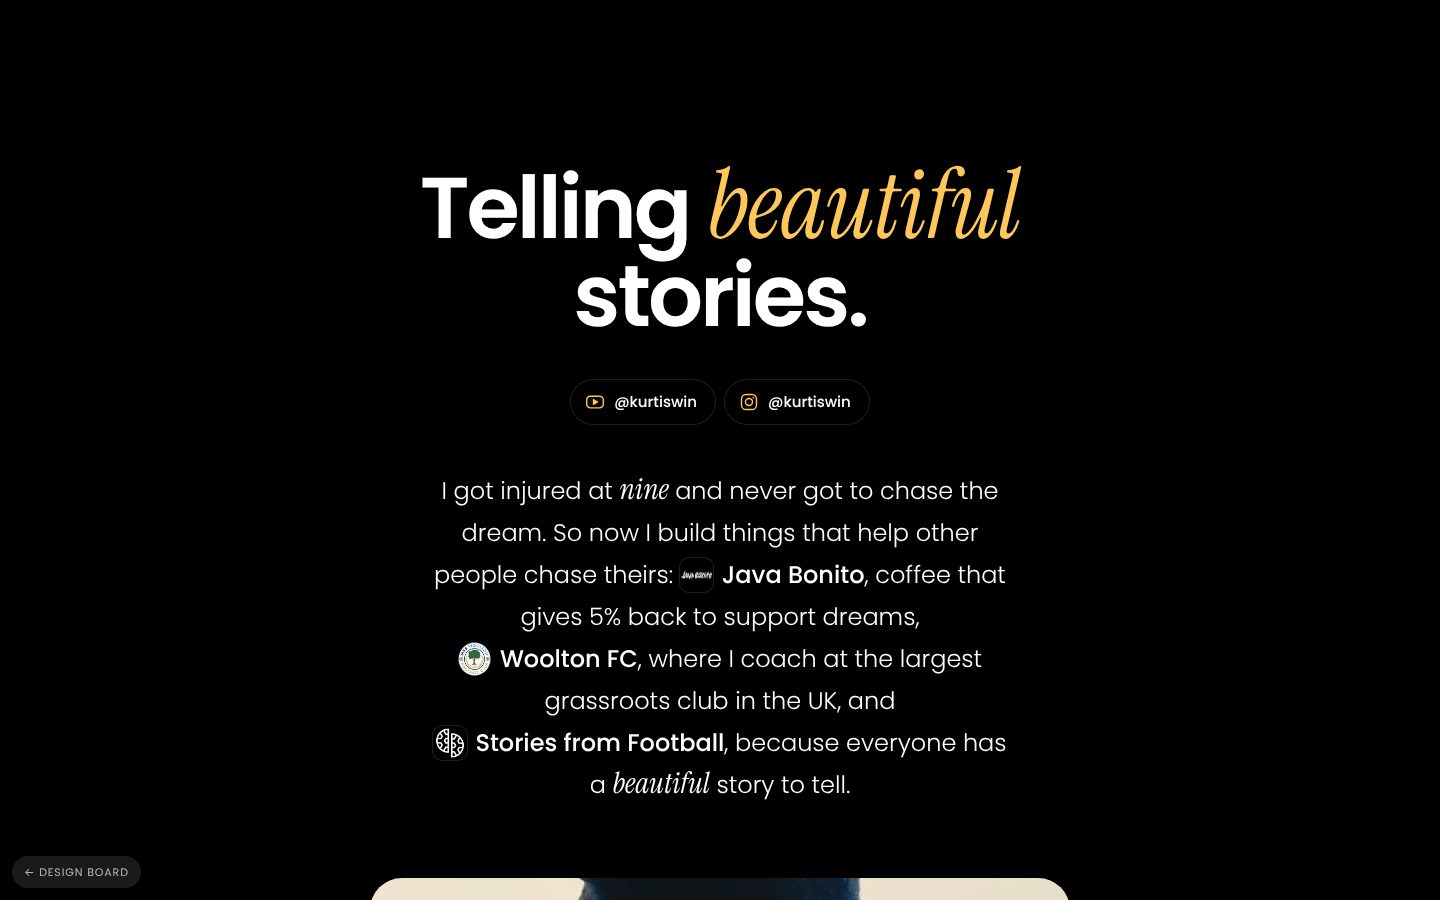
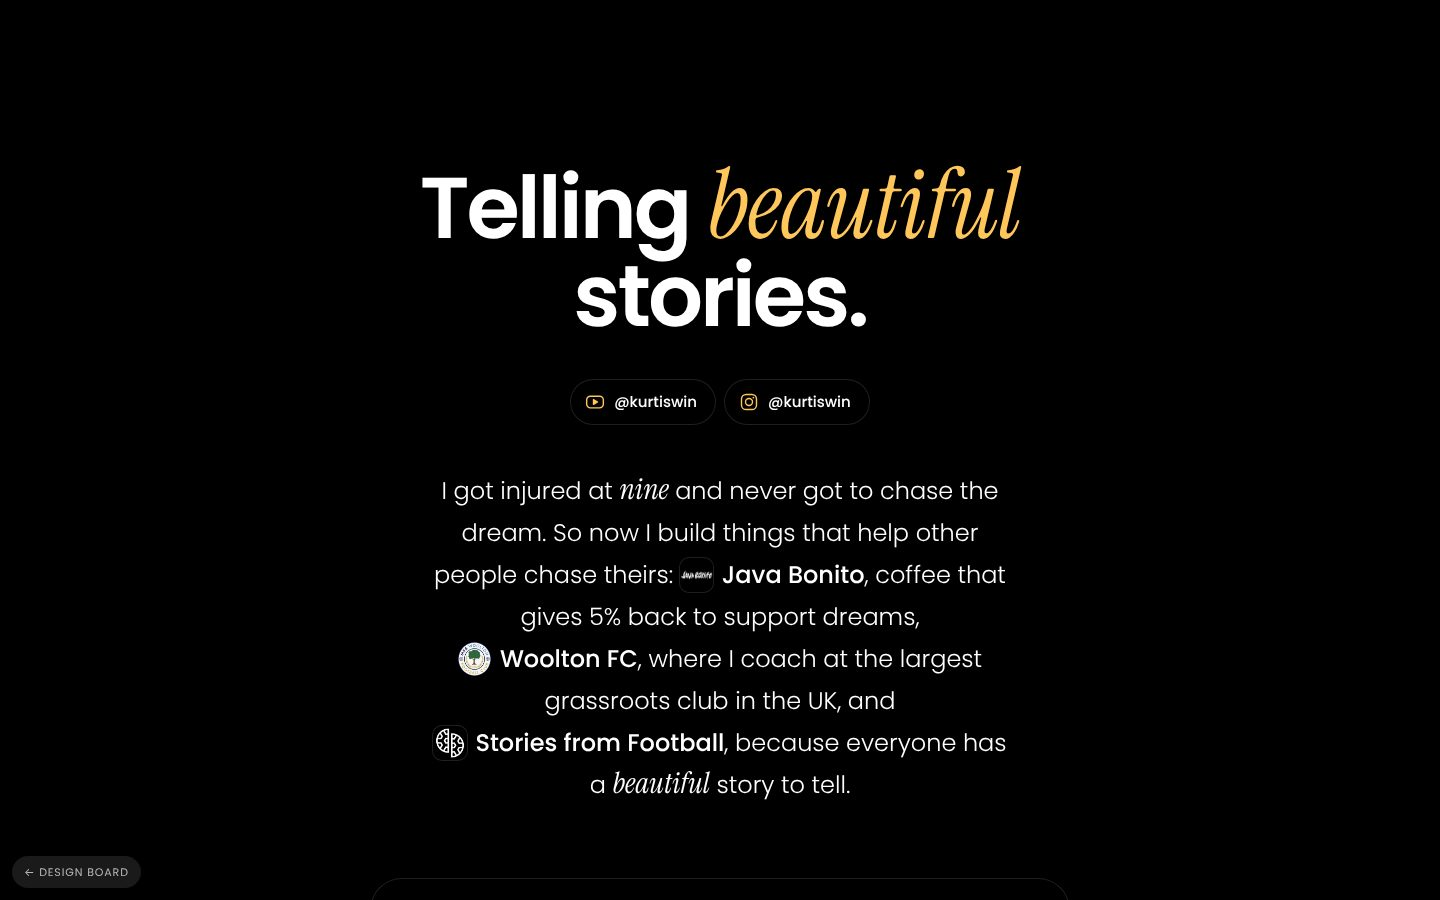
Halve video, remove What to expect block
Claude-Session: https://claude.ai/code/session_01YWeD3rSu7rVPaxhd9cXvfE

Changed region(s): [[0.25, 0.9644, 0.75, 1.0]]

diff --git a/kurtis-site/design-board/site.html b/kurtis-site/design-board/site.html
@@ -51,7 +51,7 @@ h1 em{font-family:var(--serif);font-weight:400;font-style:italic;letter-spacing:
 /* Film + signup card */
 .card{width:100%;max-width:100%;margin-top:60px;border-radius:32px;overflow:hidden;background:#000;box-shadow:inset 0 0 0 1px var(--line);text-align:left}
 @media (min-width:900px){.card{width:700px;max-width:none;margin-top:72px}.card .signup{max-width:680px;margin:0 auto}}
-.film{position:relative;aspect-ratio:4/3;max-width:100%;background:#0a0a0a;overflow:hidden}
+.film{position:relative;aspect-ratio:4/3;width:50%;max-width:100%;margin:clamp(22px,5vw,40px) auto 0;border-radius:20px;background:#0a0a0a;overflow:hidden}
 .film video{position:absolute;inset:0;width:100%;height:100%;object-fit:cover;display:block}
 
 .signup{padding:clamp(22px,5vw,40px)}
@@ -61,7 +61,7 @@ h1 em{font-family:var(--serif);font-weight:400;font-style:italic;letter-spacing:
 .expect li{display:flex;align-items:center;gap:10px;font-size:13px;font-weight:500;letter-spacing:.14em;text-transform:uppercase}
 @media (max-width:429px){.expect{gap:12px 18px}.expect li{gap:7px;letter-spacing:.08em;font-size:12.5px}}
 .expect svg{width:20px;height:20px;flex:none;color:var(--gold)}
-form{display:flex;gap:10px;margin-top:22px}
+form{display:flex;gap:10px;margin-top:0}
 input{flex:1 1 0;min-width:0;height:56px;border-radius:16px;border:1px solid var(--line);background:#0a0a0a;color:var(--text);
   padding:0 14px 0 16px;font:inherit;font-size:16px}
 input::placeholder{color:#8a8a8a}
@@ -105,12 +105,7 @@ footer a{text-decoration:none}
       <video src="assets/film.mp4" poster="assets/film-poster.jpg" autoplay muted loop playsinline preload="metadata" aria-label="Short film: making coffee and coaching at Woolton FC"></video>
     </div>
     <div class="signup">
-      <h2 class="eyebrow" id="join-h">What to expect</h2>
-      <ul class="expect">
-        <li><svg viewBox="0 0 24 24" fill="none" stroke="currentColor" stroke-width="1.7" stroke-linecap="round" stroke-linejoin="round" aria-hidden="true"><circle cx="9" cy="8" r="3"/><path d="M3.5 20c0-3 2.5-5.5 5.5-5.5s5.5 2.5 5.5 5.5"/><circle cx="17" cy="9" r="2.4"/><path d="M16.2 14.6c2.6.3 4.3 2.5 4.3 5.4"/></svg>People</li>
-        <li><svg viewBox="0 0 24 24" fill="none" stroke="currentColor" stroke-width="1.7" stroke-linecap="round" stroke-linejoin="round" aria-hidden="true"><path d="M12 21s-6.5-5.8-6.5-11a6.5 6.5 0 0 1 13 0c0 5.2-6.5 11-6.5 11z"/><circle cx="12" cy="10" r="2.4"/></svg>Places</li>
-        <li><svg viewBox="0 0 24 24" fill="none" stroke="currentColor" stroke-width="1.7" stroke-linecap="round" stroke-linejoin="round" aria-hidden="true"><path d="M4 20h4L19 9l-4-4L4 16z"/><path d="M13.5 6.5l4 4"/></svg>The build</li>
-      </ul>
+      <h2 class="sr" id="join-h">Join the club</h2>
       <form data-kit>
         <label class="sr" for="a-email">Email address</label>
         <input id="a-email" type="email" name="email_address" placeholder="name@email.com" autocomplete="email" required>

diff --git a/skills/kurtis-design-skill-personal-brand/assets/reference/site.html b/skills/kurtis-design-skill-personal-brand/assets/reference/site.html
@@ -51,7 +51,7 @@ h1 em{font-family:var(--serif);font-weight:400;font-style:italic;letter-spacing:
 /* Film + signup card */
 .card{width:100%;max-width:100%;margin-top:60px;border-radius:32px;overflow:hidden;background:#000;box-shadow:inset 0 0 0 1px var(--line);text-align:left}
 @media (min-width:900px){.card{width:700px;max-width:none;margin-top:72px}.card .signup{max-width:680px;margin:0 auto}}
-.film{position:relative;aspect-ratio:4/3;max-width:100%;background:#0a0a0a;overflow:hidden}
+.film{position:relative;aspect-ratio:4/3;width:50%;max-width:100%;margin:clamp(22px,5vw,40px) auto 0;border-radius:20px;background:#0a0a0a;overflow:hidden}
 .film video{position:absolute;inset:0;width:100%;height:100%;object-fit:cover;display:block}
 
 .signup{padding:clamp(22px,5vw,40px)}
@@ -61,7 +61,7 @@ h1 em{font-family:var(--serif);font-weight:400;font-style:italic;letter-spacing:
 .expect li{display:flex;align-items:center;gap:10px;font-size:13px;font-weight:500;letter-spacing:.14em;text-transform:uppercase}
 @media (max-width:429px){.expect{gap:12px 18px}.expect li{gap:7px;letter-spacing:.08em;font-size:12.5px}}
 .expect svg{width:20px;height:20px;flex:none;color:var(--gold)}
-form{display:flex;gap:10px;margin-top:22px}
+form{display:flex;gap:10px;margin-top:0}
 input{flex:1 1 0;min-width:0;height:56px;border-radius:16px;border:1px solid var(--line);background:#0a0a0a;color:var(--text);
   padding:0 14px 0 16px;font:inherit;font-size:16px}
 input::placeholder{color:#8a8a8a}
@@ -105,12 +105,7 @@ footer a{text-decoration:none}
       <video src="film.mp4" poster="film-poster.jpg" autoplay muted loop playsinline preload="metadata" aria-label="Short film: making coffee and coaching at Woolton FC"></video>
     </div>
     <div class="signup">
-      <h2 class="eyebrow" id="join-h">What to expect</h2>
-      <ul class="expect">
-        <li><svg viewBox="0 0 24 24" fill="none" stroke="currentColor" stroke-width="1.7" stroke-linecap="round" stroke-linejoin="round" aria-hidden="true"><circle cx="9" cy="8" r="3"/><path d="M3.5 20c0-3 2.5-5.5 5.5-5.5s5.5 2.5 5.5 5.5"/><circle cx="17" cy="9" r="2.4"/><path d="M16.2 14.6c2.6.3 4.3 2.5 4.3 5.4"/></svg>People</li>
-        <li><svg viewBox="0 0 24 24" fill="none" stroke="currentColor" stroke-width="1.7" stroke-linecap="round" stroke-linejoin="round" aria-hidden="true"><path d="M12 21s-6.5-5.8-6.5-11a6.5 6.5 0 0 1 13 0c0 5.2-6.5 11-6.5 11z"/><circle cx="12" cy="10" r="2.4"/></svg>Places</li>
-        <li><svg viewBox="0 0 24 24" fill="none" stroke="currentColor" stroke-width="1.7" stroke-linecap="round" stroke-linejoin="round" aria-hidden="true"><path d="M4 20h4L19 9l-4-4L4 16z"/><path d="M13.5 6.5l4 4"/></svg>The build</li>
-      </ul>
+      <h2 class="sr" id="join-h">Join the club</h2>
       <form data-kit>
         <label class="sr" for="a-email">Email address</label>
         <input id="a-email" type="email" name="email_address" placeholder="name@email.com" autocomplete="email" required>

diff --git a/skills/kurtis-design-skill-personal-brand/references/lessons.md b/skills/kurtis-design-skill-personal-brand/references/lessons.md
@@ -10,11 +10,11 @@ Read before every piece of work. Add to it after every piece of work and every f
 - **2026-11 · No avatar or logo above the headline.** Both were tried; he removed them. Start with the headline.
 - **2026-11 · Pills show the handle, not the platform name.** Icon + "@kurtiswin".
 - **2026-11 · Brand-coloured outline icons, not platform colours.** Red YouTube and gradient Instagram were replaced with gold outlines; gold beat white.
-- **2026-11 · Fewer words.** He cut the video caption, the visible card heading, topic descriptions and the "no spam" line, and cut eight topics to three. Default to labels only, and few of them.
+- **2026-11 · Fewer words (signup ended as just email + button).** He cut the video caption, the visible card heading, topic descriptions and the "no spam" line, and cut eight topics to three. Default to labels only, and few of them.
 - **2026-11 · Real logos, done the brand's way.** Letter tiles and an invented "JB" monogram were rejected; the Java Bonito icon must match its own favicon (whole wordmark across a black square).
 - **2026-11 · Black everything.** Grey cards and pill fills read as cheap; black with a hairline and a gold hover ring reads premium.
 - **2026-11 · Space = luxury.** He asked for the hero lower and slightly more space between blocks. Err towards more air.
-- **2026-11 · Video big but not full-bleed on laptop.** About 1.2× the text width, like Daniel Dalen's.
+- **2026-11 · Video smaller than first thought.** Started at 1.2× the text width (Dalen), then halved: a half-width 4:3 clip framed inside the black card. Keep video supporting, not dominant.
 - **2026-11 · Gold for one word only.** "nine" went gold, then back to white; only "beautiful" in the headline stays gold.
 - **2026-11 · He'll rename things himself.** He renamed the board "KurtisWin - Design Board" outside the session. Keep his names.
 

diff --git a/skills/kurtis-design-skill-personal-brand/references/brand.md b/skills/kurtis-design-skill-personal-brand/references/brand.md
@@ -81,12 +81,12 @@ Keep the link inline (not flex), so commas sit directly after the name. Each pro
 ### Media + signup card
 ```css
 .card{border-radius:32px;overflow:hidden;background:#000;box-shadow:inset 0 0 0 1px var(--line)}
-.film{aspect-ratio:4/3}  /* matches the source clips; no caption over the video */
+.film{aspect-ratio:4/3;width:50%;margin:clamp(22px,5vw,40px) auto 0;border-radius:20px}  /* half-width clip framed inside the card; no caption */
 @media (min-width:900px){.card{width:700px}.card .signup{max-width:680px;margin:0 auto}}
 ```
 Video: `autoplay muted loop playsinline preload="metadata"` with a poster frame.
 
-Signup block, top to bottom: centred label "WHAT TO EXPECT" (12px, .24em, muted) → centred row of topic items (gold icon + uppercase label) → hairline → email field + button side by side. Current topics: People, Places, The build. No descriptions after the topics and no "no spam" line (both removed).
+Signup block: just the email field and button side by side under the video. The "What to expect" label and topic icons (People, Places, The build) were tried and removed; the icons are kept in section 5 for other uses.
 
 ### Email field and button
 ```css

diff --git a/kurtis-site/BRIEF.md b/kurtis-site/BRIEF.md
@@ -49,3 +49,5 @@
 
 - 2026-11-06: Story copy: Java Bonito 'coffee that gives 5% back to support dreams'; Woolton FC 'where I coach at the largest grassroots club in the UK'.
 
+- 2026-11-06: Video halved (half-width clip framed in the card); What to expect + topic icons removed, signup is just email + button.
+
